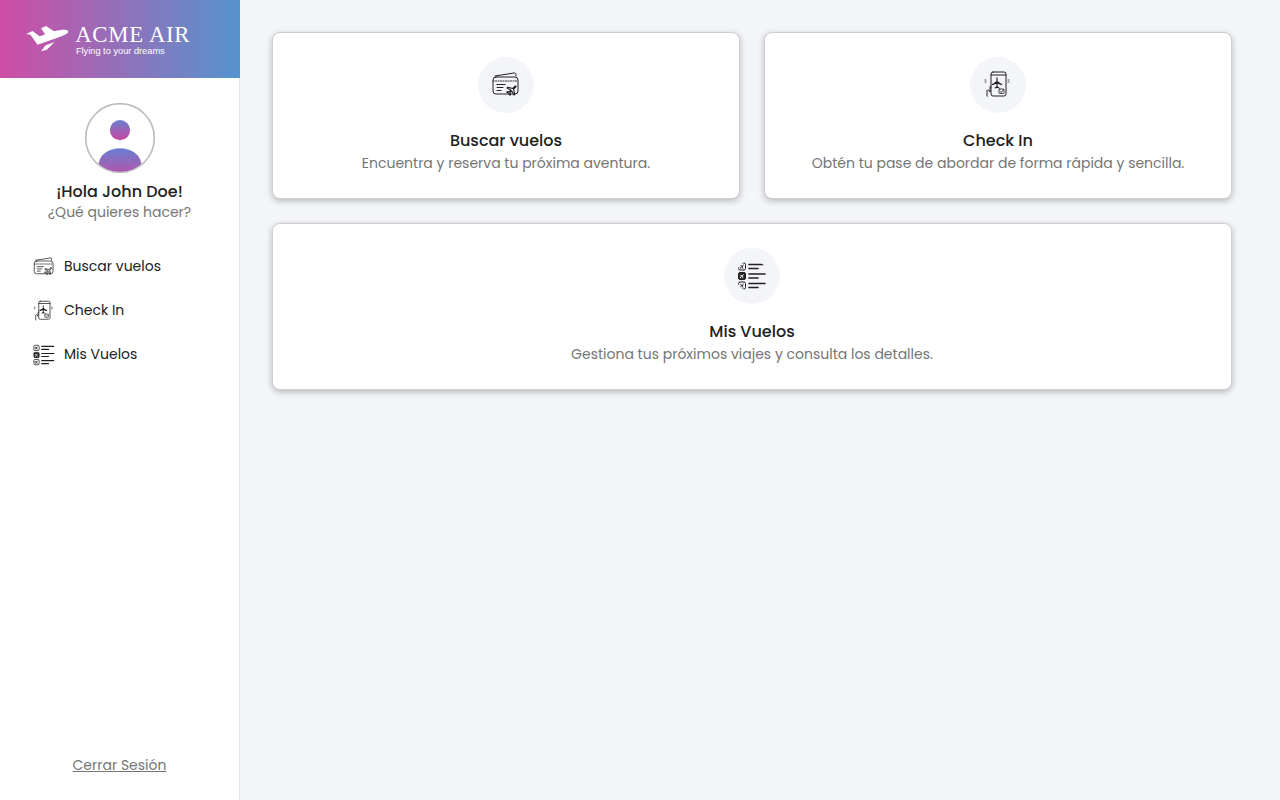
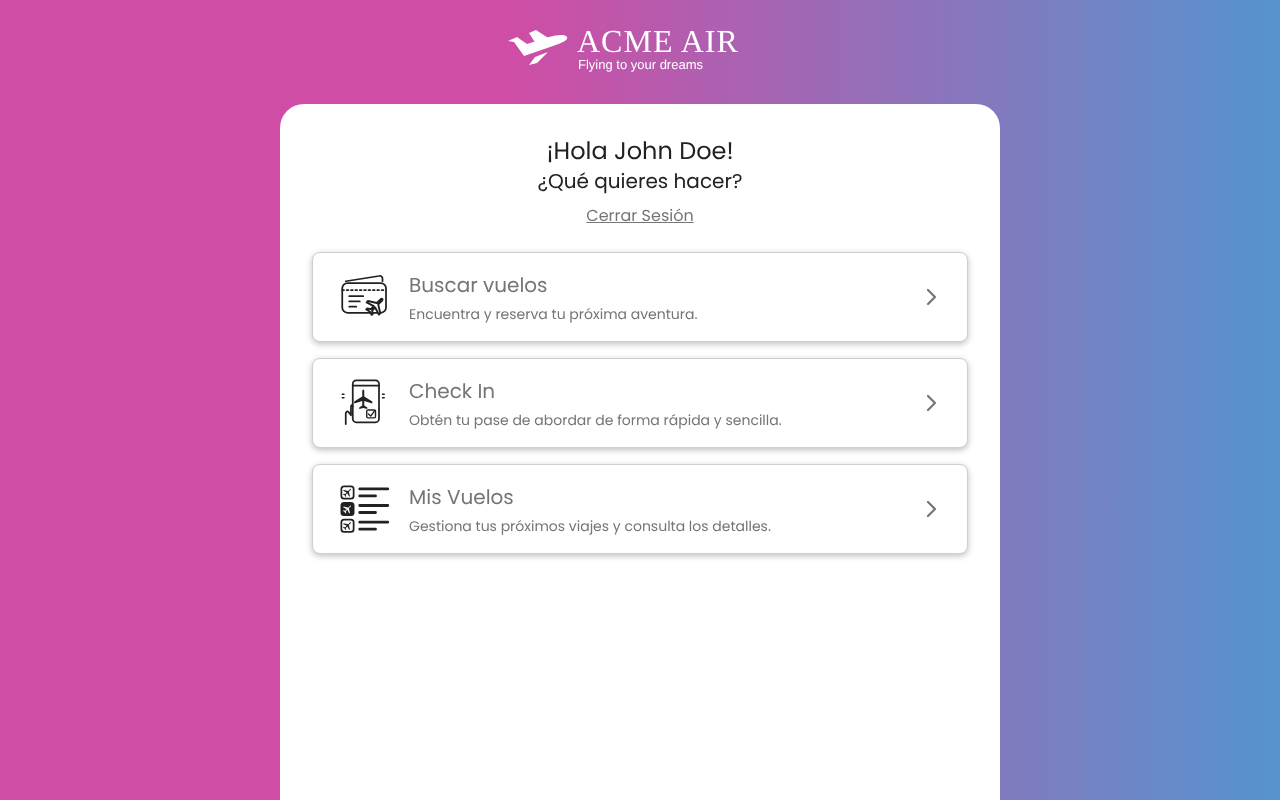
fix: unificar el menú principal en celular, tablet y escritorio
- El menú usa el mismo diseño en todos los anchos: hoja blanca centrada
  sobre el degradado y opciones en lista, igual que el resto de vistas.
- Se elimina el diseño de escritorio con barra lateral y cuadrícula.
- Desde tablet se muestra la descripción de cada opción.
- Se quitan del HTML y del CSS los accesos rápidos y el avatar, que
  ya no se muestran en ningún ancho.
- Se actualiza la captura de escritorio del README.

diff --git a/css/responsive.css b/css/responsive.css
@@ -87,183 +87,20 @@
 /* ===== B: menú y búsqueda (menu, buscar-vuelos) ===== */
 
 /* --------------------------------------------------------------------------
-   Menú principal · escritorio (1024 px)
-   La página pasa a una cuadrícula por áreas: logo y perfil a la izquierda
-   (barra lateral) y las tarjetas de opciones a la derecha.
-   .menu usa display: contents para que sus hijos entren en la cuadrícula.
+   Menú principal · tablet y escritorio (768 px en adelante)
+   Se mantiene el mismo diseño del celular (hoja blanca centrada sobre el
+   degradado y opciones en lista) para que la vista sea igual en todos los
+   dispositivos. Solo se agrega la descripción debajo de cada opción.
    -------------------------------------------------------------------------- */
-@media (min-width: 1024px) {
-  .app--menu {
-    --menu-fondo: #f4f5f9;
-
-    display: grid;
-    grid-template-columns: 15rem 1fr;
-    grid-template-rows: auto 1fr;
-    grid-template-areas:
-      "cabecera principal"
-      "perfil   principal";
-    padding: 0;
-    background: var(--menu-fondo);
-  }
-
-  .app--menu .menu {
-    display: contents;
-  }
-
-  .app--menu .app-header {
-    grid-area: cabecera;
-    padding: var(--space-3);
-    background: linear-gradient(to right, var(--color-brand-start), var(--color-brand-end));
-  }
-
-  .app--menu .app-header__logo {
-    width: 100%;
-    max-width: 12rem;
-    height: auto;
-  }
-
-  /* Barra lateral: perfil, accesos rápidos y cierre de sesión al final */
-  .app--menu .menu__perfil {
-    grid-area: perfil;
-    margin: 0;
-    padding: var(--space-4) var(--space-3);
-    background-color: var(--color-surface);
-    border-right: 1px solid var(--color-divider);
-  }
-
-  .menu__avatar {
-    display: block;
-    width: 4.5rem;
-    height: 4.5rem;
-    margin-bottom: var(--space-2);
-  }
-
-  .menu__saludo {
-    font-size: var(--font-size-base);
-    font-weight: var(--font-weight-medium);
-  }
-
-  .menu__pregunta {
-    margin-bottom: var(--space-4);
-    font-size: var(--font-size-sm);
-    color: var(--color-text-muted);
-  }
-
-  .menu__nav {
-    display: block;
-    align-self: stretch;
-  }
-
-  .menu__nav-lista {
-    display: flex;
-    flex-direction: column;
-    gap: var(--space-1);
-  }
-
-  .menu__nav-enlace {
-    display: flex;
-    align-items: center;
-    gap: var(--space-2);
-    padding: var(--space-2) var(--space-3);
-    font-size: var(--font-size-sm);
-    color: var(--color-text);
-    text-decoration: none;
-    border-radius: var(--radius-md);
-  }
-
-  .menu__nav-enlace:hover {
-    background-color: var(--menu-fondo);
-  }
-
-  .menu__nav-icono {
-    width: 1.5rem;
-    height: 1.5rem;
-  }
-
-  .menu__salir {
-    margin-top: auto;
-    font-size: var(--font-size-sm);
-  }
-
-  /* Tarjetas: dos columnas y la tercera ocupa todo el ancho */
-  .app--menu .menu__principal {
-    grid-area: principal;
-    padding: var(--space-5);
-  }
-
-  .menu__opciones {
-    display: grid;
-    grid-template-columns: repeat(2, 1fr);
-    gap: var(--space-4);
-    max-width: 60rem;
-    margin: 0 auto;
-  }
-
-  .menu__opciones li:last-child {
-    grid-column: 1 / -1;
-  }
-
+@media (min-width: 768px) {
   .menu__opcion {
-    flex-direction: column;
-    justify-content: flex-start;
-    height: 100%;
-    padding: var(--space-4);
-    text-align: center;
-  }
-
-  .menu__icono {
-    width: 3.5rem;
-    height: 3.5rem;
-    padding: 0.75rem;
-    background-color: var(--menu-fondo);
-    border-radius: 50%;
-  }
-
-  .menu__texto {
-    flex: 0 1 auto;
-  }
-
-  .menu__titulo {
-    font-size: var(--font-size-base);
-    font-weight: var(--font-weight-medium);
-    color: var(--color-text);
+    padding: var(--space-3) var(--space-4);
   }
 
   .menu__descripcion {
     display: block;
+    margin-top: var(--space-1);
     font-size: var(--font-size-sm);
-  }
-
-  .menu__chevron {
-    display: none;
-  }
-}
-
-/* --------------------------------------------------------------------------
-   Menú principal · pantallas grandes (1440 px)
-   Para no dejar espacio vacío a la derecha, la barra lateral crece un poco
-   y las tres tarjetas van en una sola fila, centradas.
-   -------------------------------------------------------------------------- */
-@media (min-width: 1440px) {
-  .app--menu {
-    grid-template-columns: 17rem 1fr;
-  }
-
-  .app--menu .menu__principal {
-    padding: var(--space-5) calc(var(--space-5) * 2);
-  }
-
-  .menu__opciones {
-    grid-template-columns: repeat(3, 1fr);
-    max-width: 80rem;
-  }
-
-  .menu__opciones li:last-child {
-    grid-column: auto;
-  }
-
-  .menu__opcion {
-    padding: var(--space-5) var(--space-4);
   }
 }
 

diff --git a/menu.html b/menu.html
@@ -20,42 +20,16 @@
   <link rel="stylesheet" href="css/responsive.css">
 </head>
 
-<body class="app app--menu">
+<body class="app">
   <header class="app-header">
     <img class="app-header__logo" src="img/logo-blanco.svg" alt="ACME AIR · Flying to your dreams">
   </header>
 
   <div class="app__card menu">
-    <!-- Perfil: saludo y cierre de sesión. En escritorio es la barra lateral -->
+    <!-- Perfil: saludo y cierre de sesión -->
     <aside class="menu__perfil">
-      <img class="menu__avatar" src="img/icons/avatar.svg" alt="">
       <h1 class="menu__saludo">¡Hola John Doe!</h1>
       <p class="menu__pregunta">¿Qué quieres hacer?</p>
-
-      <!-- Accesos rápidos: solo se muestran en escritorio -->
-      <nav class="menu__nav" aria-label="Accesos rápidos">
-        <ul class="menu__nav-lista">
-          <li>
-            <a class="menu__nav-enlace" href="buscar-vuelos.html">
-              <img class="menu__nav-icono" src="img/icons/buscar-vuelos.svg" alt="">
-              Buscar vuelos
-            </a>
-          </li>
-          <li>
-            <a class="menu__nav-enlace" href="checkin.html">
-              <img class="menu__nav-icono" src="img/icons/checkin.svg" alt="">
-              Check In
-            </a>
-          </li>
-          <li>
-            <a class="menu__nav-enlace" href="mis-vuelos.html">
-              <img class="menu__nav-icono" src="img/icons/mis-vuelos.svg" alt="">
-              Mis Vuelos
-            </a>
-          </li>
-        </ul>
-      </nav>
-
       <a class="link link--muted menu__salir" href="index.html">Cerrar Sesión</a>
     </aside>
 

diff --git a/css/layout.css b/css/layout.css
@@ -185,8 +185,7 @@
 
 /* --------------------------------------------------------------------------
    Menú principal (menu.html) · vista móvil
-   El avatar, los accesos rápidos y la descripción de cada opción solo
-   se muestran en escritorio (ver responsive.css).
+   La descripción de cada opción se muestra desde tablet (ver responsive.css).
    -------------------------------------------------------------------------- */
 .menu__perfil {
   display: flex;
@@ -196,8 +195,6 @@
   text-align: center;
 }
 
-.menu__avatar,
-.menu__nav,
 .menu__descripcion {
   display: none;
 }
@@ -248,8 +245,7 @@
 }
 
 /* Interacción: las tarjetas crecen un poco al pasar el cursor */
-.menu__opcion,
-.menu__nav-enlace {
+.menu__opcion {
   transition: transform var(--transition-base), box-shadow var(--transition-base),
     background-color var(--transition-base);
 }
@@ -264,8 +260,7 @@
 }
 
 @media (prefers-reduced-motion: reduce) {
-  .menu__opcion,
-  .menu__nav-enlace {
+  .menu__opcion {
     transition: none;
   }
 

diff --git a/README.md b/README.md
@@ -91,7 +91,7 @@ Las 9 vistas del enunciado están integradas en `main` y la navegación simulada
 
 ### Tablet y escritorio
 
-**Menú principal (escritorio, 1280 px):** barra lateral con el perfil y las tarjetas de opciones en una cuadrícula.
+**Menú principal (escritorio, 1280 px):** el mismo diseño del celular, centrado sobre el degradado y con la descripción de cada opción.
 
 ![Menú principal en escritorio](docs/capturas/menu-escritorio.png)
 
